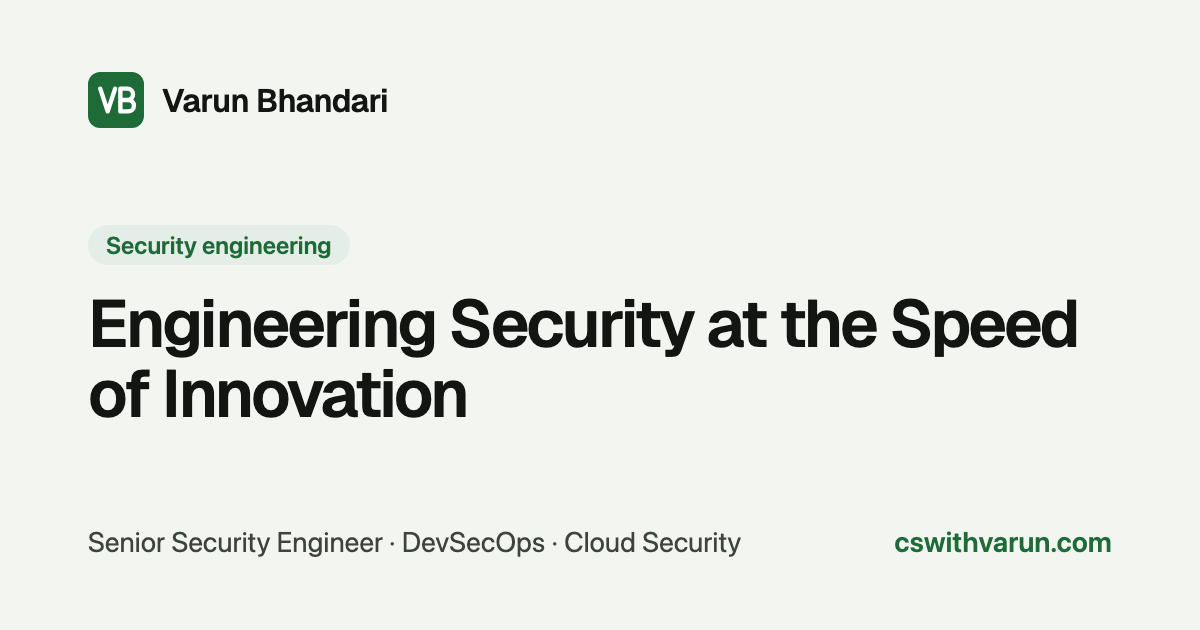
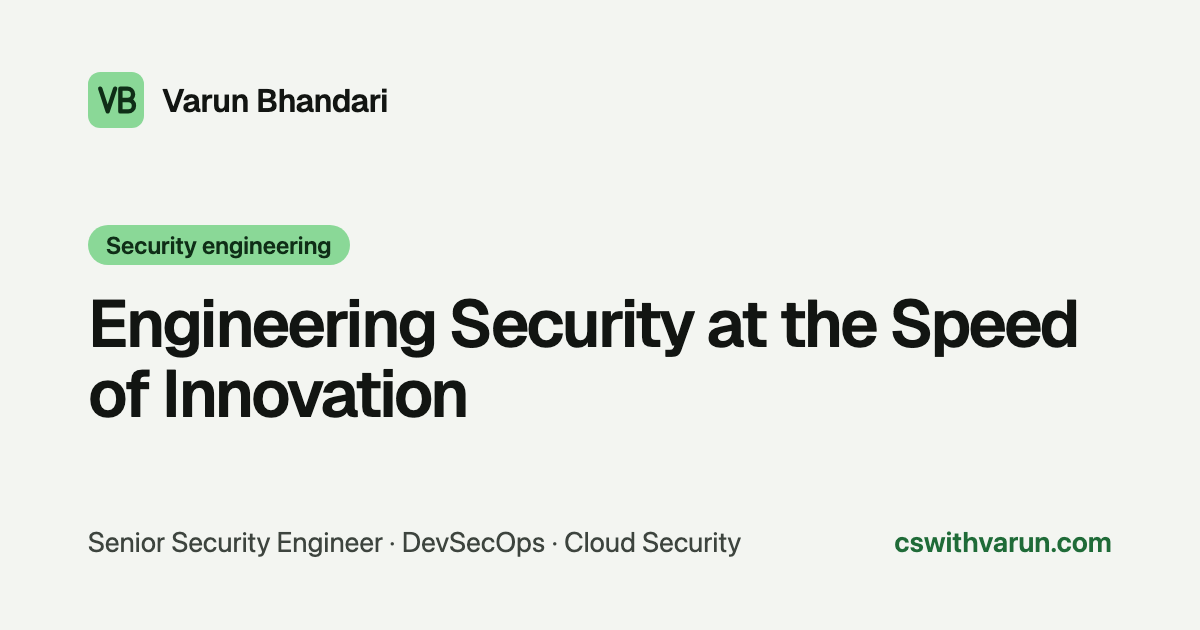
Soft theme: lighter mint fills and brighter display green in light mode
Split the accent into text, fill and display roles so buttons, chips and the
logo can use a fresh mint (dark text on it, 8.7:1) and large headlines a brighter
green (large text, 3:1+), while links keep a readable dark green.

Changed region(s): [[0.0617, 0.3317, 0.3083, 0.4222], [0.0617, 0.0905, 0.1233, 0.2111]]

diff --git a/assets/css/components.css b/assets/css/components.css
@@ -155,9 +155,9 @@
 }
 
 .btn-outline:hover {
-    background-color: var(--color-primary);
+    background-color: var(--accent-fill);
     color: var(--on-accent);
-    border-color: var(--color-primary);
+    border-color: var(--accent-fill);
     box-shadow: var(--shadow-primary);
 }
 
@@ -181,7 +181,7 @@
 /* Accent text (kept as a class name for the markup; no longer a gradient:
    the gradient is reserved for the one primary button per page) */
 .gradient-text {
-    color: var(--color-primary);
+    color: var(--accent-display);
     display: inline-block;
 }
 
@@ -198,7 +198,7 @@
     display: block;
     font-size: var(--font-size-3xl);
     font-weight: var(--font-weight-bold);
-    color: var(--color-primary);
+    color: var(--accent-display);
     margin-bottom: var(--spacing-sm);
 }
 
@@ -234,9 +234,9 @@
 
 .filter-btn.active,
 .filter-btn.active:hover {
-    background: var(--color-primary);
+    background: var(--accent-fill);
     color: var(--on-accent);
-    border-color: var(--color-primary);
+    border-color: var(--accent-fill);
 }
 
 /* Form elements */

diff --git a/assets/css/palette.css b/assets/css/palette.css
@@ -20,10 +20,15 @@
     --text-secondary: #3d443e;
     --text-muted: #5a625b;
 
-    /* Accent: deep forest green */
+    /* Accent, in three roles:
+       text    - links and small labels; must reach 4.5:1 on every surface
+       fill    - buttons, active pills, chips, logo; a fresh mint with dark text on it (8.7:1)
+       display - large headlines and big numbers; brighter, as large text needs only 3:1 */
     --color-primary: #1f6b38;
     --color-secondary: #165029;
-    --on-accent: #fff;
+    --accent-fill: #8ad897;
+    --on-accent: #0f2e17;
+    --accent-display: #2b9147;
     --color-danger: #b91c1c;
 
     /* Borders: barely-there card edges; stronger edge for form controls (3:1) */
@@ -65,7 +70,9 @@
 
     --color-primary: #86d494;
     --color-secondary: #ade6b6;
+    --accent-fill: #86d494;
     --on-accent: #0e100e;
+    --accent-display: #86d494;
     --color-danger: #f87171;
 
     --border-color: #262b26;

diff --git a/assets/css/about-page.css b/assets/css/about-page.css
@@ -65,7 +65,7 @@
 .stat-suffix {
     display: inline-block;
     font-size: 2rem;
-    color: var(--color-primary);
+    color: var(--accent-display);
     margin-left: 0.25rem;
 }
 
@@ -182,7 +182,7 @@
 }
 
 .end-marker {
-    background: var(--color-primary);
+    background: var(--accent-fill);
     box-shadow: 0 5px 20px var(--accent-glow);
     animation: pulseAccent 2s ease-in-out infinite;
 }
@@ -261,7 +261,7 @@
 .timeline-item .timeline-marker {
     width: 20px;
     height: 20px;
-    background: var(--color-primary);
+    background: var(--accent-fill);
     border-radius: 50%;
     position: absolute;
     left: 50%;
@@ -404,7 +404,7 @@
 
 .skill-fill {
     height: 100%;
-    background: var(--color-primary);
+    background: var(--accent-fill);
     border-radius: var(--border-radius-full);
     width: var(--skill-width, 0);
     transition: width 1.5s cubic-bezier(0.4, 0, 0.2, 1);

diff --git a/assets/css/theme.css b/assets/css/theme.css
@@ -7,8 +7,8 @@
 :root,
 [data-theme='dark'] {
     /* Solid accent: the gradient look is gone, but the token names stay so components don't change */
-    --gradient-primary: var(--color-primary);
-    --gradient-primary-90: var(--color-primary);
+    --gradient-primary: var(--accent-fill, var(--color-primary));
+    --gradient-primary-90: var(--accent-fill, var(--color-primary));
     --accent-tint: color-mix(in srgb, var(--color-primary) 8%, transparent);
     --accent-tint-strong: color-mix(in srgb, var(--color-primary) 14%, transparent);
     --accent-glow: color-mix(in srgb, var(--color-primary) 30%, transparent);

diff --git a/assets/css/projects.css b/assets/css/projects.css
@@ -27,7 +27,7 @@
   position: absolute;
   top: var(--spacing-xl);
   right: var(--spacing-xl);
-  background: var(--color-primary);
+  background: var(--accent-fill);
   color: var(--on-accent);
   padding: var(--spacing-sm) var(--spacing-md);
   border-radius: var(--border-radius-full);
@@ -365,7 +365,7 @@
 .impact-number {
   font-size: clamp(2rem, 4vw, 3rem);
   font-weight: var(--font-weight-bold);
-  color: var(--color-primary);
+  color: var(--accent-display);
   display: block;
   margin-bottom: var(--spacing-sm);
   line-height: 1.2;

diff --git a/assets/css/home.css b/assets/css/home.css
@@ -45,7 +45,7 @@
 }
 
 .hero-title .highlight {
-  color: var(--color-primary);
+  color: var(--accent-display);
 }
 
 .hero-subtitle {
@@ -102,8 +102,8 @@
   display: inline-block;
   font-size: var(--font-size-sm);
   font-weight: var(--font-weight-semibold);
-  color: var(--color-primary);
-  background: var(--accent-tint-strong);
+  color: var(--on-accent);
+  background: var(--accent-fill);
   padding: 0.25rem 0.75rem;
   border-radius: var(--border-radius-full);
   margin-bottom: var(--spacing-md);

diff --git a/assets/css/main.css b/assets/css/main.css
@@ -179,7 +179,7 @@ a:hover {
 }
 
 .logo-mark-bg {
-    fill: var(--color-primary);
+    fill: var(--accent-fill);
 }
 
 .logo-mark-glyph {
@@ -461,7 +461,7 @@ a:hover {
 }
 
 .footer-section .social-links a:hover {
-    background-color: var(--color-primary);
+    background-color: var(--accent-fill);
     color: var(--on-accent);
     transform: translateY(-3px);
     border-color: var(--color-primary);

diff --git a/assets/css/post.css b/assets/css/post.css
@@ -315,7 +315,7 @@
   left: 0;
   right: 0;
   height: 3px;
-  background: var(--color-primary);
+  background: var(--accent-fill);
   opacity: 0;
   transition: opacity var(--transition-base);
 }

diff --git a/assets/css/error.css b/assets/css/error.css
@@ -19,7 +19,7 @@
     font-weight: 900;
     line-height: 1;
     margin: 0 0 var(--spacing-md);
-    color: var(--color-primary);
+    color: var(--accent-display);
 }
 
 .error-message {

diff --git a/assets/css/blog.css b/assets/css/blog.css
@@ -85,7 +85,7 @@
 }
 
 .filter-btn-dropdown.active {
-  background-color: var(--color-primary);
+  background-color: var(--accent-fill);
   color: var(--on-accent);
 }
 
